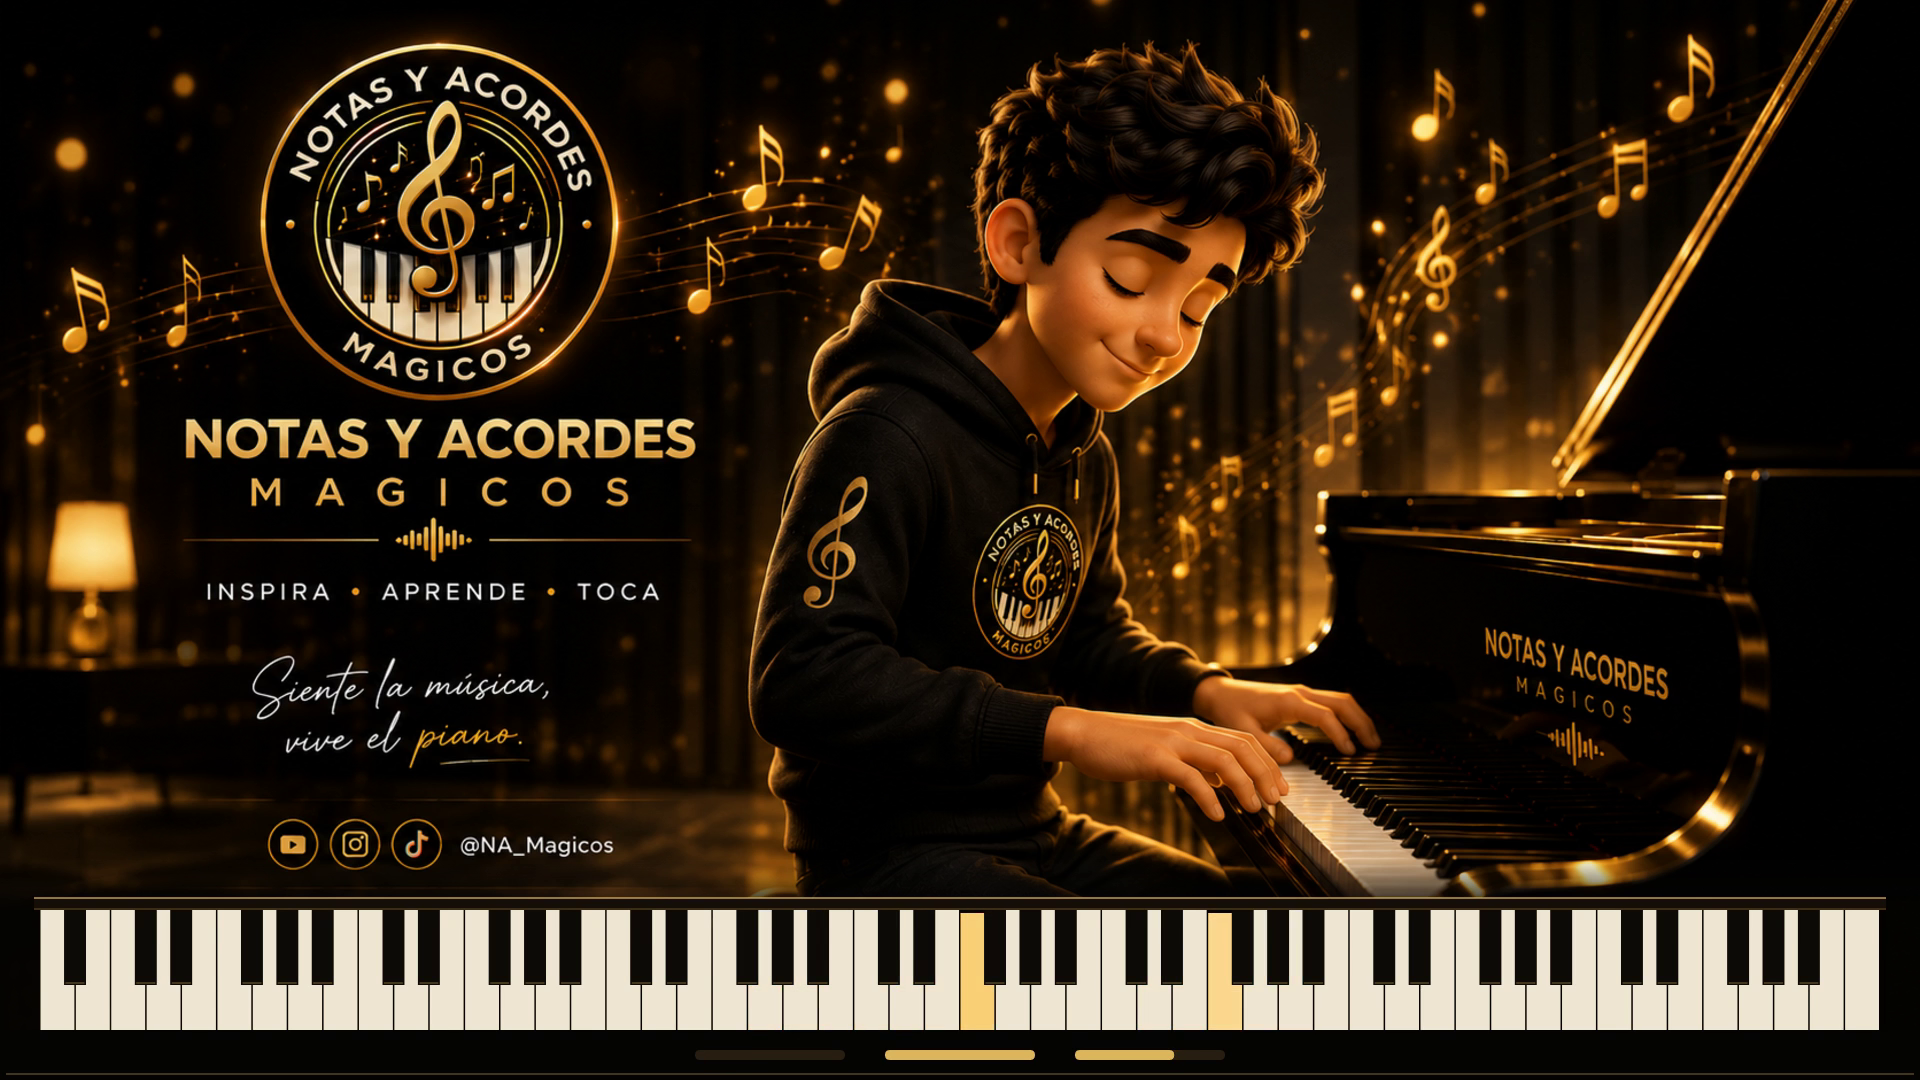
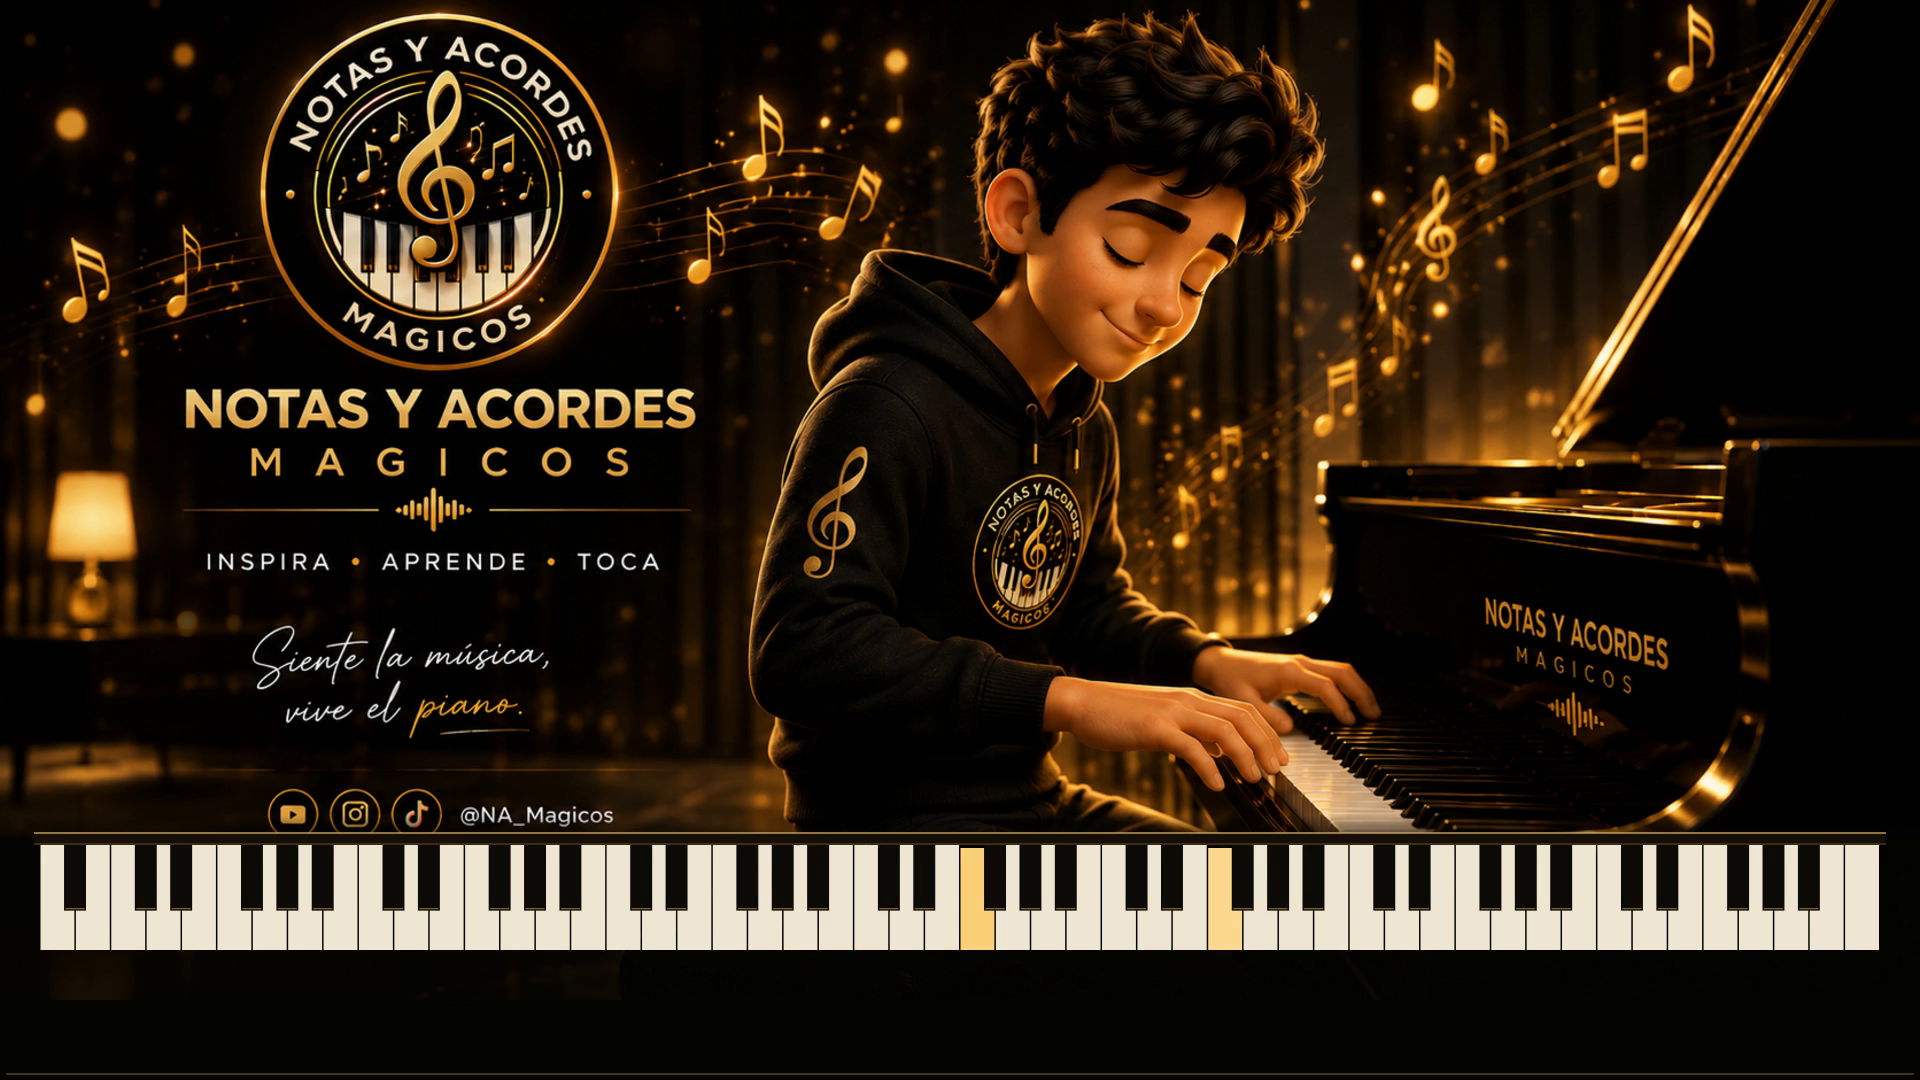
NA_Magicos: el teclado sobre el arte, libre de la barra del reproductor
Con --background el teclado termina 130 px sobre el borde inferior (105 px
de alto, sin pedales), para que la barra de progreso y los controles del
reproductor no lo tapen al pausar. La imagen sube 90 px y la sombra cubre
por completo la franja inferior. Teclas negras proporcionales a la altura.

Claude-Session: https://claude.ai/code/session_01LV6tGgqow3FC1L6yFk53UC

diff --git a/engine/src/midi2wav/video.rs b/engine/src/midi2wav/video.rs
@@ -484,8 +484,9 @@ impl Painter {
         let s = (h / 1080.0).min(w / 1920.0);
         let margin = 40.0 * s;
         let pitch = (w - 2.0 * margin) / 88.0;
-        let keys_bottom = h - if shown.contains(&true) { 50.0 } else { 10.0 } * s;
-        let keys_y = keys_bottom - 120.0 * s;
+        // over an image the keys stand higher (clear of a video player's controls), a little shorter, no pedals
+        let keys_bottom = if image.is_some() { h - 130.0 * s } else { h - if shown.contains(&true) { 50.0 } else { 10.0 } * s };
+        let keys_y = keys_bottom - if image.is_some() { 105.0 } else { 120.0 } * s;
         let hammers_shown = !bars && first.keys.iter().any(|k| k.flags & KEY_HAMMER != 0);
         let front = if hammers_shown { keys_y - 110.0 * s } else { keys_y - 30.0 * s };
         let longest = first.keys.iter().map(|k| k.length).fold(0.0, f32::max);
@@ -523,7 +524,6 @@ impl Painter {
         out.data_mut().copy_from_slice(self.background.data());
         if self.keys_only {
             self.draw_keys(hammers, t, out);
-            self.draw_pedals(st.pedals, out);
             return;
         }
         glow.fill(Color::TRANSPARENT);
@@ -691,12 +691,13 @@ impl Painter {
             let x0 = wx[n - 1] + ww * 0.68;
             let held = hammers.held(n - 21, t).is_some();
             let fill = if held { color(self.pal.hue(n - 21), 0.75, 1.0) } else { self.pal.black };
-            if let Some(r) = Rect::from_xywh(x0, self.keys_y, ww * 0.62, 75.0 * s) {
+            let bh = 0.625 * (bottom - self.keys_y);
+            if let Some(r) = Rect::from_xywh(x0, self.keys_y, ww * 0.62, bh) {
                 out.fill_rect(r, &solid(fill), Transform::identity(), None);
             }
             if self.pal.theme == Theme::Deco && !held {
                 // ebony with a gold lip at its front edge
-                stroke_line(out, &[(x0 + 1.5 * s, self.keys_y + 73.0 * s), (x0 + ww * 0.62 - 1.5 * s, self.keys_y + 73.0 * s)], gold(0.55), 1.2 * s);
+                stroke_line(out, &[(x0 + 1.5 * s, self.keys_y + bh - 2.0 * s), (x0 + ww * 0.62 - 1.5 * s, self.keys_y + bh - 2.0 * s)], gold(0.55), 1.2 * s);
             }
         }
     }
@@ -836,17 +837,17 @@ fn image_background(px: &mut Pixmap, img: &Pixmap, w: f32, h: f32, s: f32, margi
     let (iw, ih) = (img.width() as f32, img.height() as f32);
     let k = (w / iw).max(h / ih);
     // raised a little: the image's bottom edge would lie under the keys anyway, its lower part kept in view
-    let (ox, oy) = ((w - iw * k) / 2.0, (h - ih * k) / 2.0 - 50.0 * s);
+    let (ox, oy) = ((w - iw * k) / 2.0, (h - ih * k) / 2.0 - 90.0 * s);
     px.fill(Color::from_rgba8(4, 3, 2, 255));
     let paint = tiny_skia::PixmapPaint { quality: tiny_skia::FilterQuality::Bicubic, ..tiny_skia::PixmapPaint::default() };
     px.draw_pixmap(0, 0, img.as_ref(), &paint, Transform::from_row(k, 0.0, 0.0, k, ox, oy), None);
-    // the shadow under the keys: from clear 50 px over the fallboard to dark at the bottom
-    let top = keys_y - 50.0 * s;
+    // the shadow under the keys: from clear 30 px over the fallboard to dark at the bottom
+    let top = keys_y - 30.0 * s;
     if let (Some(shader), Some(rect)) = (
         LinearGradient::new(
             Point::from_xy(0.0, top),
             Point::from_xy(0.0, keys_y),
-            vec![GradientStop::new(0.0, Color::from_rgba8(4, 3, 2, 0)), GradientStop::new(1.0, Color::from_rgba8(4, 3, 2, 235))],
+            vec![GradientStop::new(0.0, Color::from_rgba8(4, 3, 2, 0)), GradientStop::new(1.0, Color::from_rgba8(4, 3, 2, 255))],
             SpreadMode::Pad,
             Transform::identity(),
         ),
